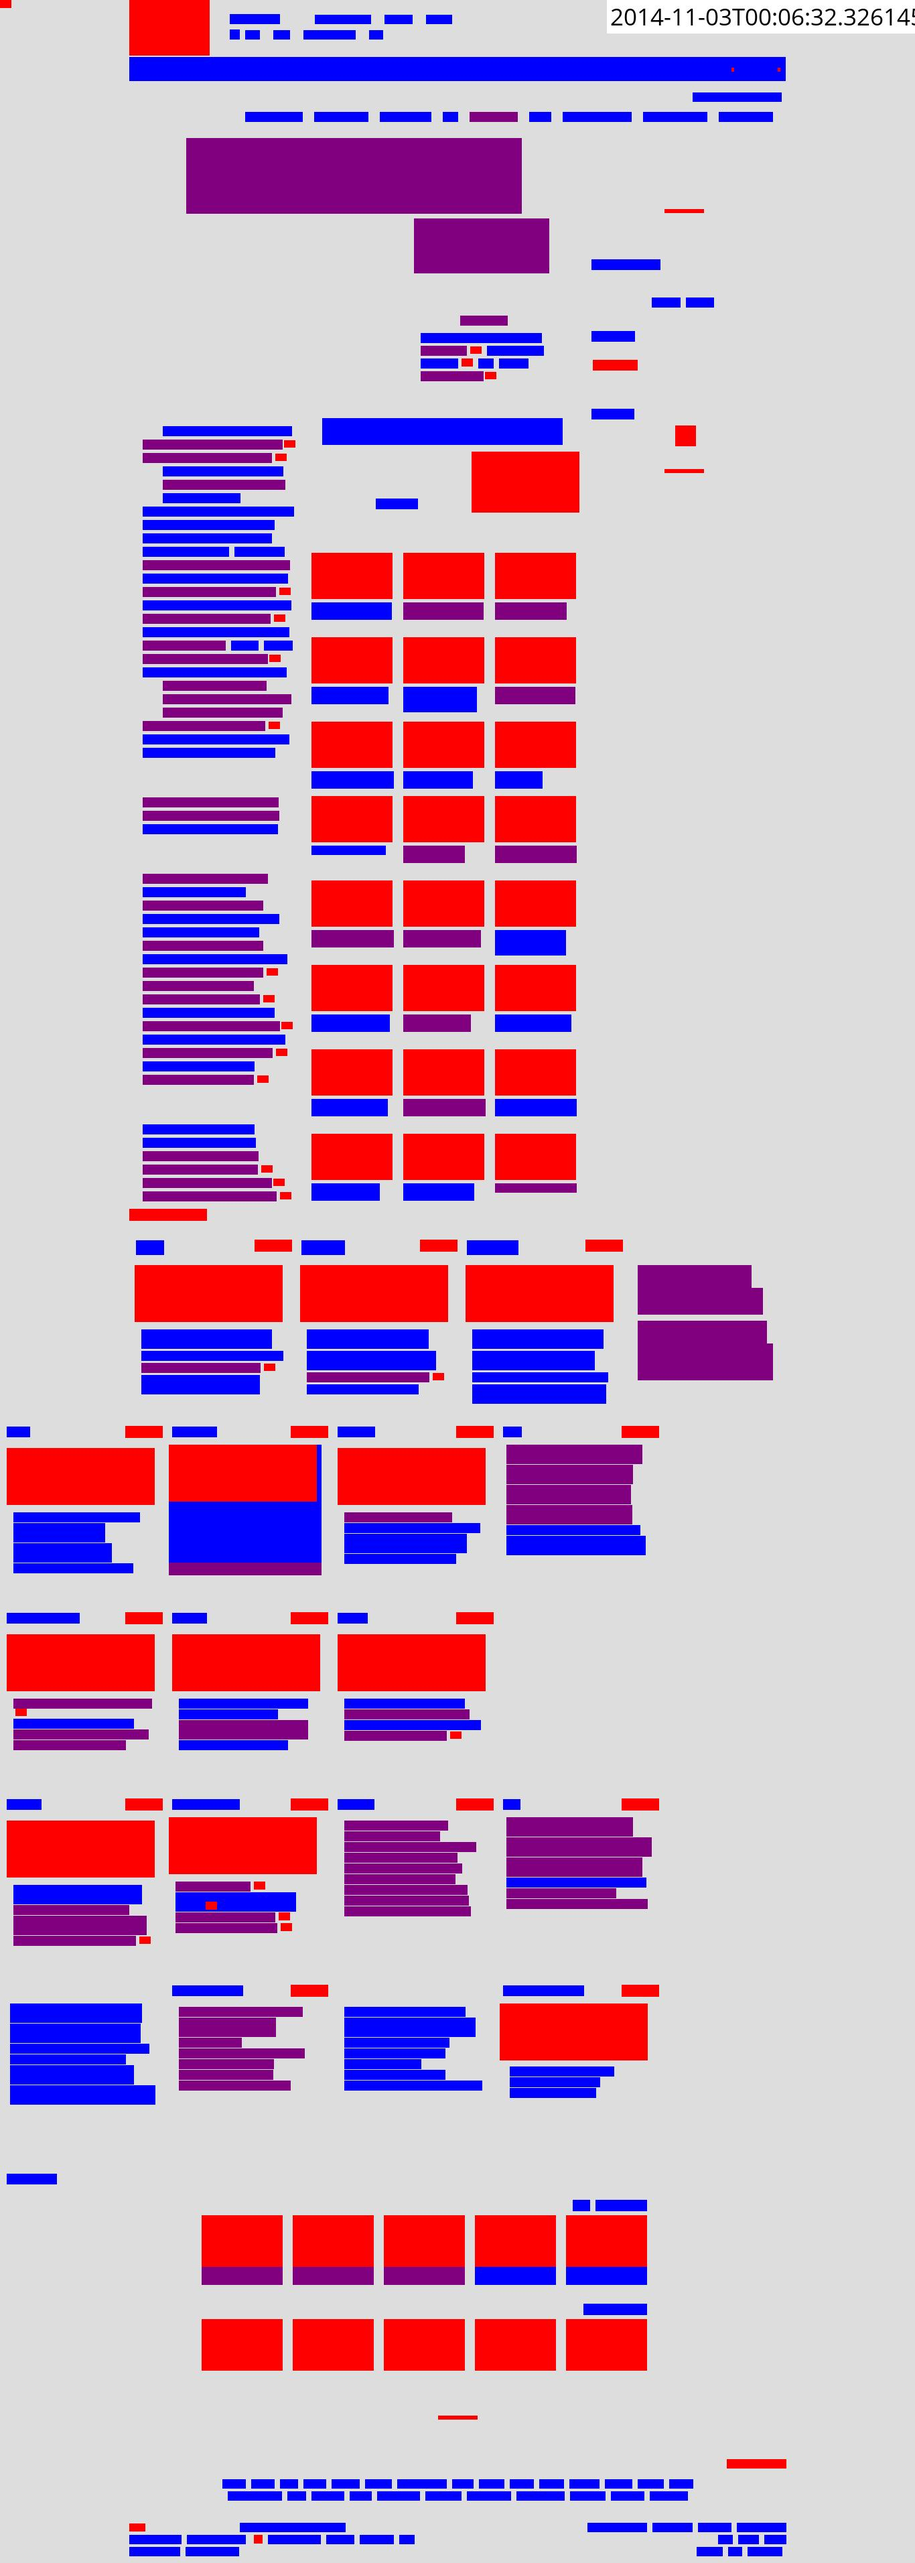
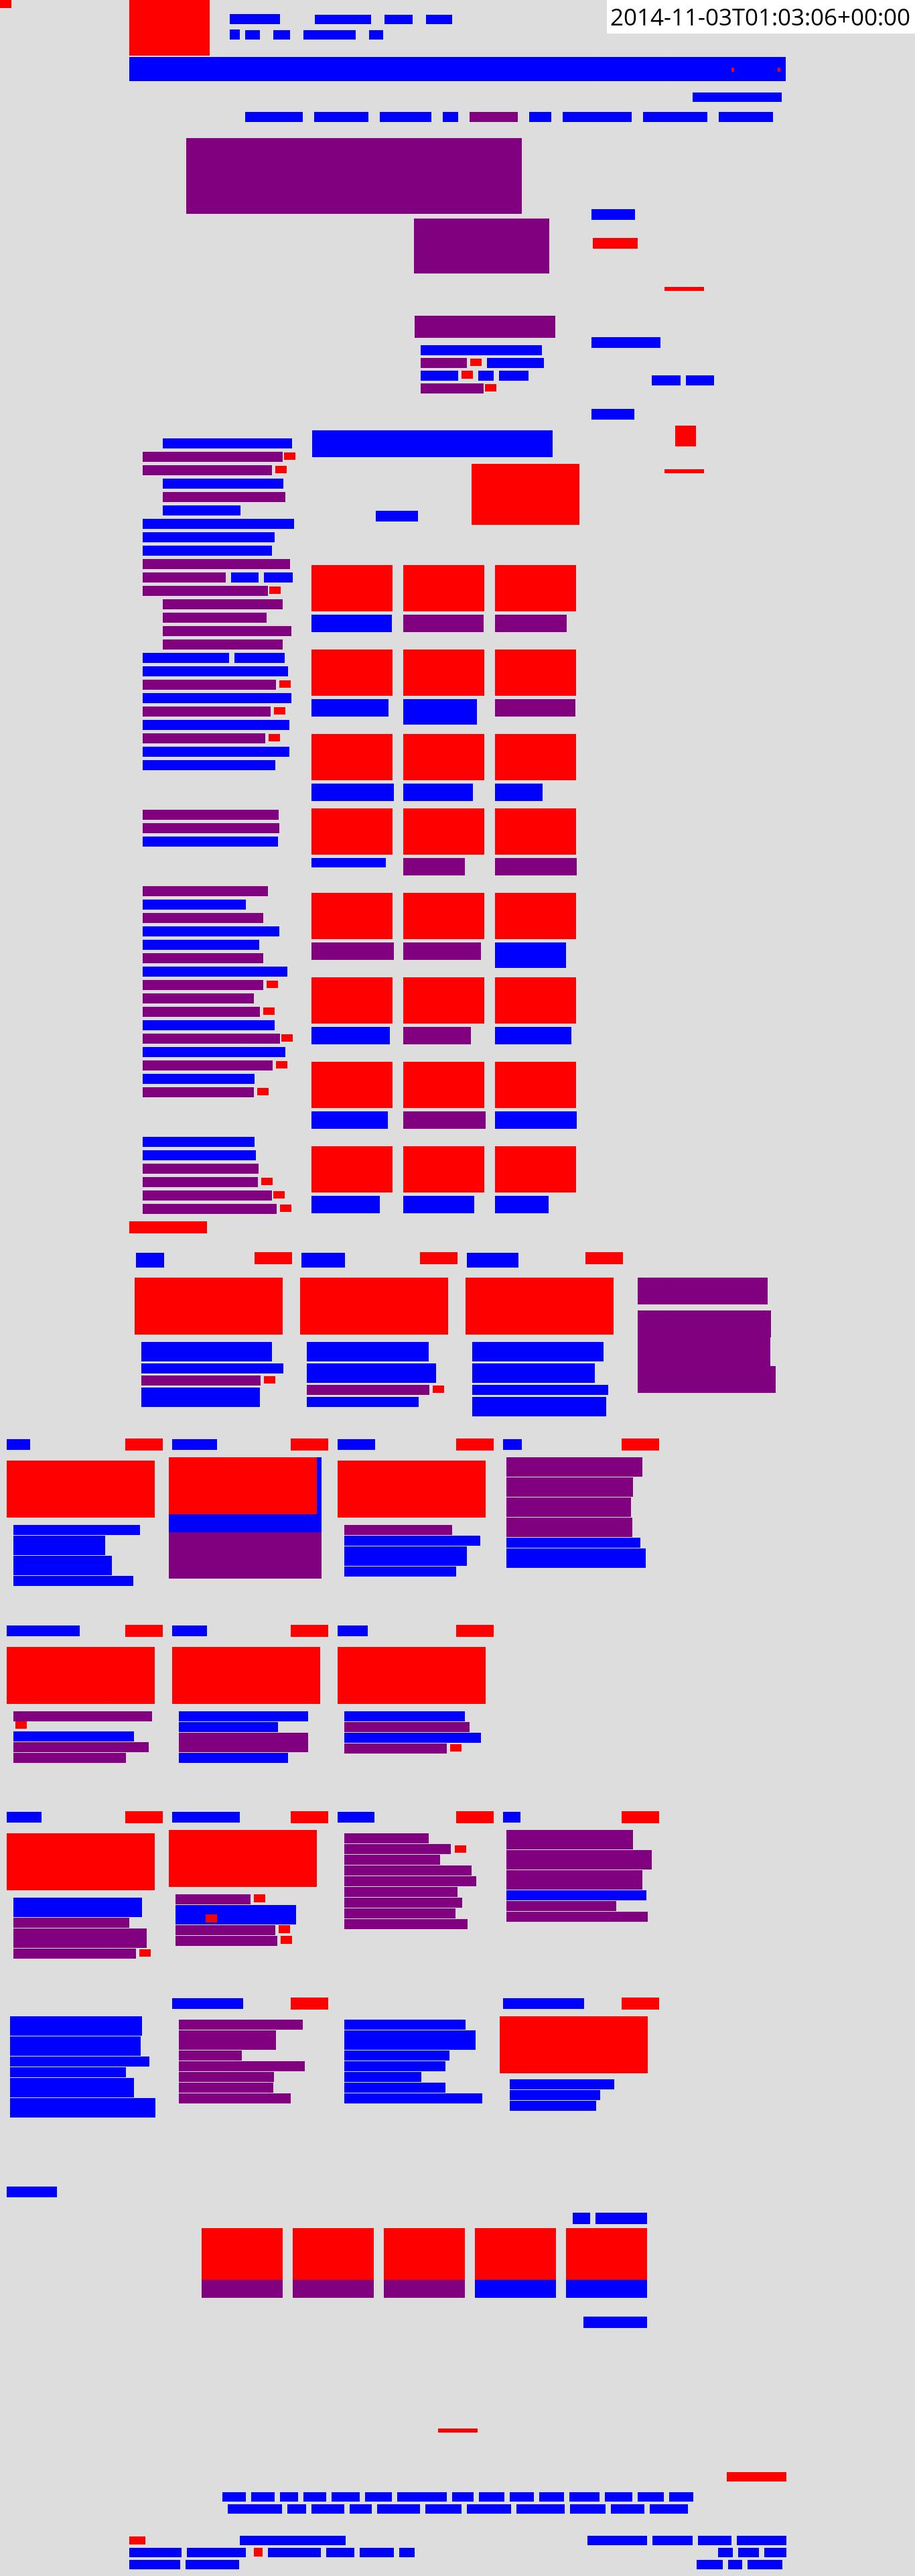
Try to remove microseconds from the timestamp image

diff --git a/storytracker/analysis.py b/storytracker/analysis.py
@@ -631,7 +631,7 @@ class ArchivedURL(UnicodeMixin):
         textdraw = PILImageDraw.Draw(textlayer)
         textdraw.text(
             (5, 0),
-            self.timestamp.isoformat(),
+            self.timestamp.replace(microsecond=0).isoformat(),
             font=self.font,
             fill=(0, 0, 0)
         )
